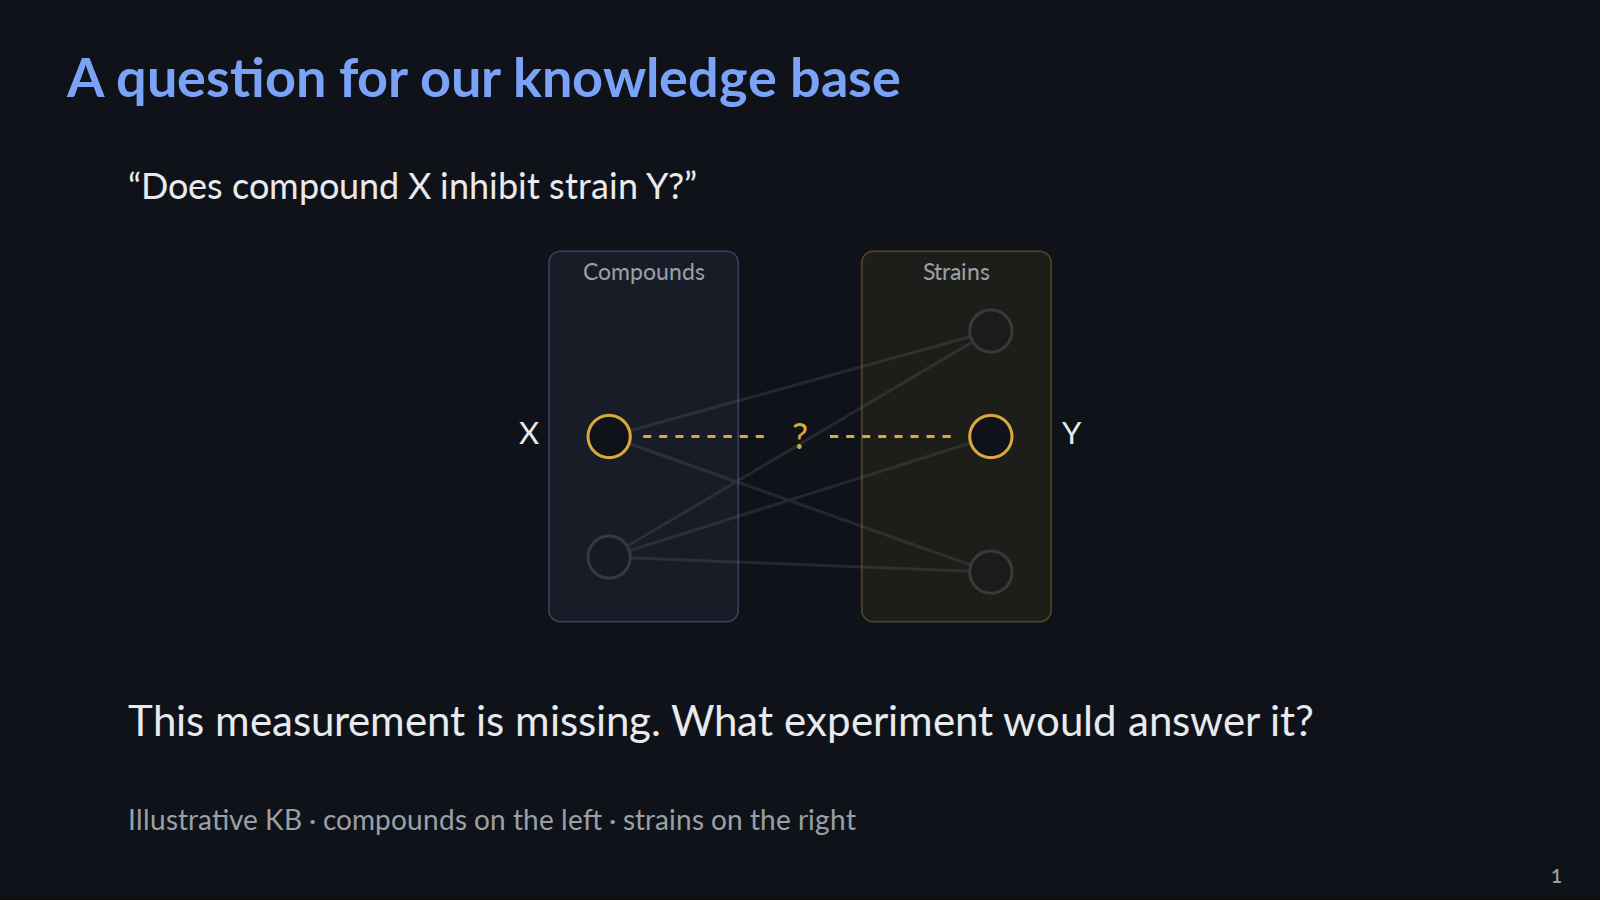
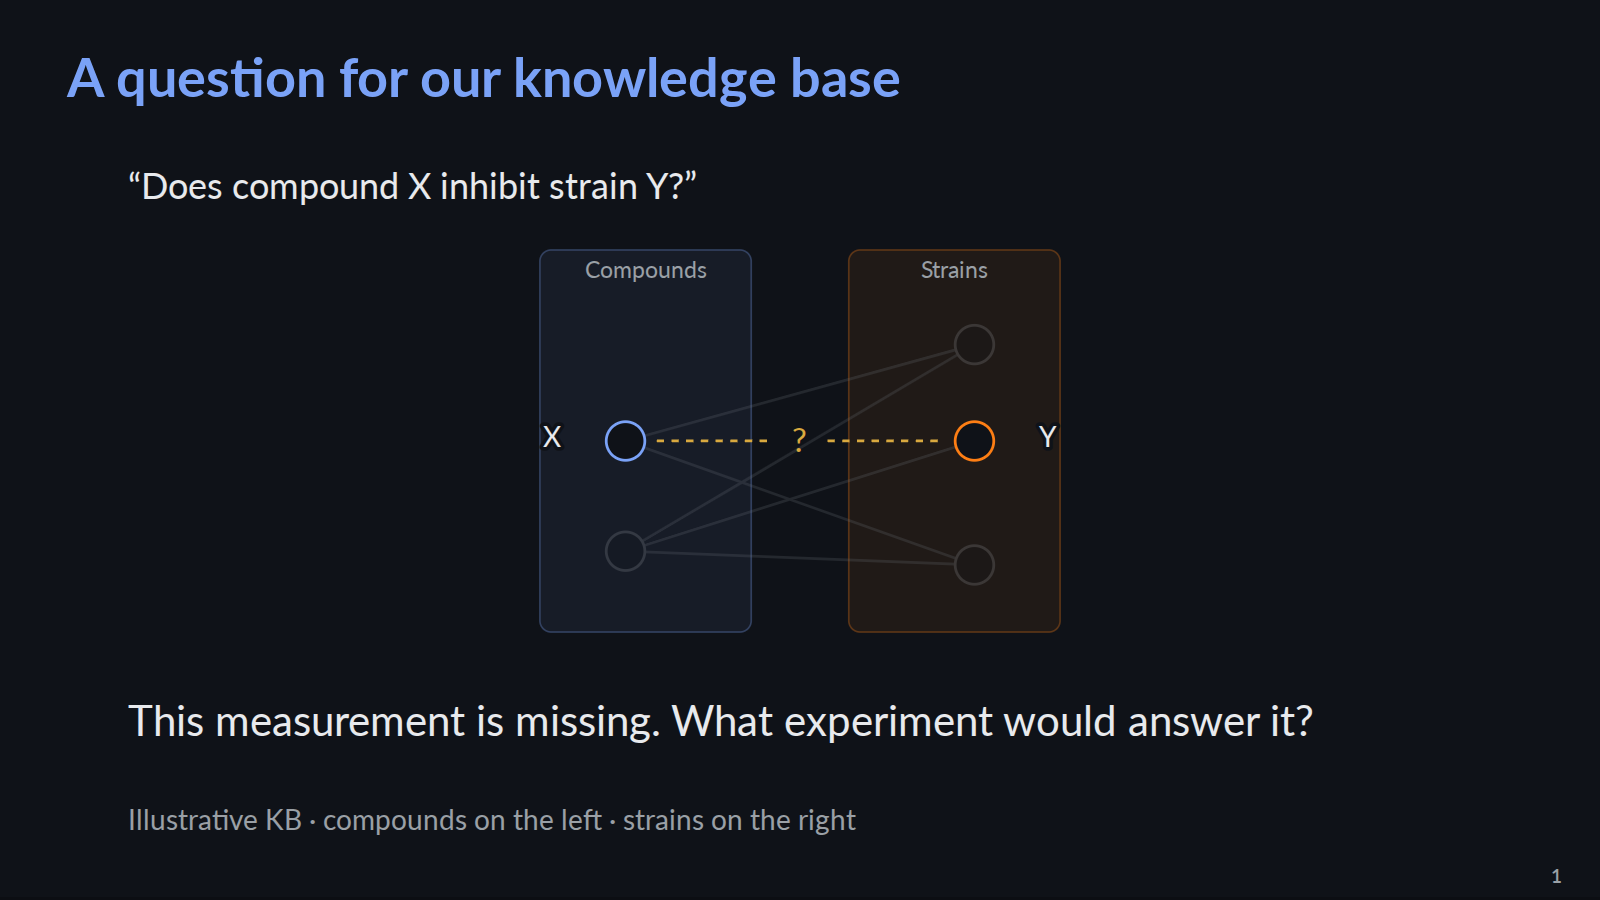
Use blue and orange focus nodes with expanding padded group boxes

diff --git a/slides/talks/question-prototype/story.js b/slides/talks/question-prototype/story.js
@@ -1,9 +1,10 @@
 // Five states: unlabeled bipartite KB, question, X/Y labels, zoom + dim context, missing link.
 // TODO(final): conceptual illustration, not an actual graph export or recorded query.
 {
-Deck.slide('missing-link',{steps:5,notes:'Abstract bipartite knowledge base: two compound nodes on the left and three strain nodes on the right. All existing edges cross the partitions. Start unlabeled; reveal the researcher question; identify X and Y; zoom and dim surrounding knowledge; highlight the missing X–Y measurement. The demonstration assumes an up-to-date KB and researcher-supplied identities. This is not an actual query trace.',mount(frame,{css}){
-css(`.ml-question{position:absolute;left:8%;top:18%;font-size:var(--t-body);color:var(--fg);opacity:0;transition:opacity .35s}.ml-view{position:absolute;left:10%;top:27%;width:80%;height:43%;overflow:hidden}.ml-view svg{width:100%;height:100%}.ml-world{transform-origin:500px 200px;transition:transform .8s ease-in-out}.ml-zoom .ml-world{transform:scale(1.22)}.ml-context{transition:opacity .6s}.ml-zoom .ml-context{opacity:.22}.ml-group{fill:var(--accent);fill-opacity:.07;stroke:var(--accent);stroke-opacity:.3;stroke-width:2}.ml-strains{fill:var(--plot-2);stroke:var(--plot-2)}.ml-group-label{fill:var(--muted);font-size:var(--t-caption);font-family:Lato,sans-serif;text-anchor:middle}.ml-edge{stroke:var(--detail);stroke-width:3;fill:none}.ml-dot{fill:var(--bg);stroke:var(--accent);stroke-width:3}.ml-context .ml-dot{transition:stroke .6s}.ml-zoom .ml-context .ml-dot{stroke:var(--muted)}.ml-focus{stroke-width:3}.ml-has-labels .ml-focus{stroke:var(--plot-2)}.ml-labels{opacity:0;transition:opacity .35s}.ml-label{fill:var(--fg);font-size:var(--t-small);font-family:Lato,sans-serif;text-anchor:middle;paint-order:stroke;stroke:var(--bg);stroke-width:8px;stroke-linejoin:round}.ml-gap{stroke:var(--plot-2);stroke-width:3;stroke-dasharray:8 8;fill:none}.ml-missing{opacity:0;transition:opacity .5s}.ml-has-question .ml-question,.ml-has-labels .ml-labels,.ml-reveal .ml-missing{opacity:1}.ml-mark{fill:var(--plot-2);font-size:var(--t-body);font-family:Lato,sans-serif;text-anchor:middle}.ml-answer{position:absolute;left:8%;top:77%;font-size:var(--t-lead);opacity:0;transition:opacity .5s}.ml-reveal .ml-answer{opacity:1}.ml-key{position:absolute;left:8%;top:89%;font-size:var(--t-caption);color:var(--muted)}.ml-jump .ml-world,.ml-jump .ml-context,.ml-jump .ml-dot,.ml-jump .ml-question,.ml-jump .ml-labels,.ml-jump .ml-missing,.ml-jump .ml-answer{transition:none}`);
-frame.innerHTML=`<h2 class="deck-heading">A question for our knowledge base</h2><div class="ml-question">“Does compound X inhibit strain Y?”</div><div class="ml-view"><svg viewBox="0 -35 1000 470" preserveAspectRatio="xMidYMid meet" aria-label="Bipartite knowledge graph: two compounds on the left, three strains on the right."><rect class="ml-group" x="195" y="-25" width="230" height="450" rx="14"/><rect class="ml-group ml-strains" x="575" y="-25" width="230" height="450" rx="14"/><text class="ml-group-label" x="310" y="10">Compounds</text><text class="ml-group-label" x="690" y="10">Strains</text><g class="ml-world"><g class="ml-context"><path class="ml-edge" d="M310 200 L690 95 M310 200 L690 335 M310 320 L690 95 M310 320 L690 200 M310 320 L690 335"/><circle class="ml-dot" cx="310" cy="320" r="21"/><circle class="ml-dot" cx="690" cy="95" r="21"/><circle class="ml-dot" cx="690" cy="335" r="21"/></g><g class="ml-dot ml-focus"><circle cx="310" cy="200" r="21"/><circle cx="690" cy="200" r="21"/></g><g class="ml-labels"><text class="ml-label" x="230" y="207">X</text><text class="ml-label" x="770" y="207">Y</text></g><g class="ml-missing"><path class="ml-gap" d="M344 200 L470 200 M530 200 L656 200"/><text class="ml-mark" x="500" y="212">?</text></g></g></svg></div><div class="ml-answer">This measurement is missing. What experiment would answer it?</div><div class="ml-key">Illustrative KB · compounds on the left · strains on the right</div>`;
+Deck.slide('missing-link',{steps:5,notes:'Abstract bipartite knowledge base: two compound nodes on the left and three strain nodes on the right. All existing edges cross the partitions. Start unlabeled; reveal the researcher question; identify X and Y; zoom and dim surrounding knowledge; highlight the missing X–Y measurement. The demonstration assumes an up-to-date KB and researcher-supplied identities. This is not an actual query trace.',mount(frame,{css,palette}){
+frame.style.setProperty('--ml-orange',palette.rainbow[4]);
+css(`.ml-question{position:absolute;left:8%;top:18%;font-size:var(--t-body);color:var(--fg);opacity:0;transition:opacity .35s}.ml-view{position:absolute;left:10%;top:26%;width:80%;height:46%;overflow:hidden}.ml-view svg{width:100%;height:100%}.ml-panels{transform-origin:500px 200px;transition:transform .8s ease-in-out}.ml-zoom .ml-panels{transform:scale(1.08)}.ml-world{transform-origin:500px 200px;transition:transform .8s ease-in-out}.ml-zoom .ml-panels{transform-origin:500px 200px;transition:transform .8s ease-in-out}.ml-zoom .ml-panels{transform:scale(1.08)}.ml-world{transform:scale(1.22)}.ml-context{transition:opacity .6s}.ml-zoom .ml-context{opacity:.22}.ml-group{fill:var(--accent);fill-opacity:.07;stroke:var(--accent);stroke-opacity:.3;stroke-width:2}.ml-strains{fill:var(--ml-orange);stroke:var(--ml-orange)}.ml-group-label{fill:var(--muted);font-size:var(--t-caption);font-family:Lato,sans-serif;text-anchor:middle}.ml-edge{stroke:var(--detail);stroke-width:3;fill:none}.ml-dot{fill:var(--bg);stroke:var(--accent);stroke-width:3}.ml-context .ml-dot{transition:stroke .6s}.ml-zoom .ml-context .ml-dot{stroke:var(--muted)}.ml-focus{stroke-width:3}.ml-has-labels .ml-x{stroke:var(--accent)}.ml-has-labels .ml-y{stroke:var(--ml-orange)}.ml-labels{opacity:0;transition:opacity .35s}.ml-label{fill:var(--fg);font-size:var(--t-small);font-family:Lato,sans-serif;text-anchor:middle;paint-order:stroke;stroke:var(--bg);stroke-width:8px;stroke-linejoin:round}.ml-gap{stroke:var(--plot-2);stroke-width:3;stroke-dasharray:8 8;fill:none}.ml-missing{opacity:0;transition:opacity .5s}.ml-has-question .ml-question,.ml-has-labels .ml-labels,.ml-reveal .ml-missing{opacity:1}.ml-mark{fill:var(--plot-2);font-size:var(--t-body);font-family:Lato,sans-serif;text-anchor:middle}.ml-answer{position:absolute;left:8%;top:77%;font-size:var(--t-lead);opacity:0;transition:opacity .5s}.ml-reveal .ml-answer{opacity:1}.ml-key{position:absolute;left:8%;top:89%;font-size:var(--t-caption);color:var(--muted)}.ml-jump .ml-panels,.ml-jump .ml-world,.ml-jump .ml-context,.ml-jump .ml-dot,.ml-jump .ml-question,.ml-jump .ml-labels,.ml-jump .ml-missing,.ml-jump .ml-answer{transition:none}`);
+frame.innerHTML=`<h2 class="deck-heading">A question for our knowledge base</h2><div class="ml-question">“Does compound X inhibit strain Y?”</div><div class="ml-view"><svg viewBox="0 -75 1000 550" preserveAspectRatio="xMidYMid meet" aria-label="Bipartite knowledge graph: two compounds on the left, three strains on the right."><g class="ml-panels"><rect class="ml-group" x="180" y="-35" width="260" height="470" rx="14"/><rect class="ml-group ml-strains" x="560" y="-35" width="260" height="470" rx="14"/><text class="ml-group-label" x="310" y="0">Compounds</text><text class="ml-group-label" x="690" y="0">Strains</text></g><g class="ml-world"><g class="ml-context"><path class="ml-edge" d="M310 200 L690 95 M310 200 L690 335 M310 320 L690 95 M310 320 L690 200 M310 320 L690 335"/><circle class="ml-dot" cx="310" cy="320" r="21"/><circle class="ml-dot" cx="690" cy="95" r="21"/><circle class="ml-dot" cx="690" cy="335" r="21"/></g><g class="ml-dot ml-focus"><circle class="ml-x" cx="310" cy="200" r="21"/><circle class="ml-y" cx="690" cy="200" r="21"/></g><g class="ml-labels"><text class="ml-label" x="230" y="207">X</text><text class="ml-label" x="770" y="207">Y</text></g><g class="ml-missing"><path class="ml-gap" d="M344 200 L470 200 M530 200 L656 200"/><text class="ml-mark" x="500" y="212">?</text></g></g></svg></div><div class="ml-answer">This measurement is missing. What experiment would answer it?</div><div class="ml-key">Illustrative KB · compounds on the left · strains on the right</div>`;
 return{enter:(s,a)=>{frame.classList.toggle('ml-jump',!a);frame.classList.toggle('ml-has-question',s>=2);frame.classList.toggle('ml-has-labels',s>=3);frame.classList.toggle('ml-zoom',s>=4);frame.classList.toggle('ml-reveal',s>=5);}};
 }});
 }
